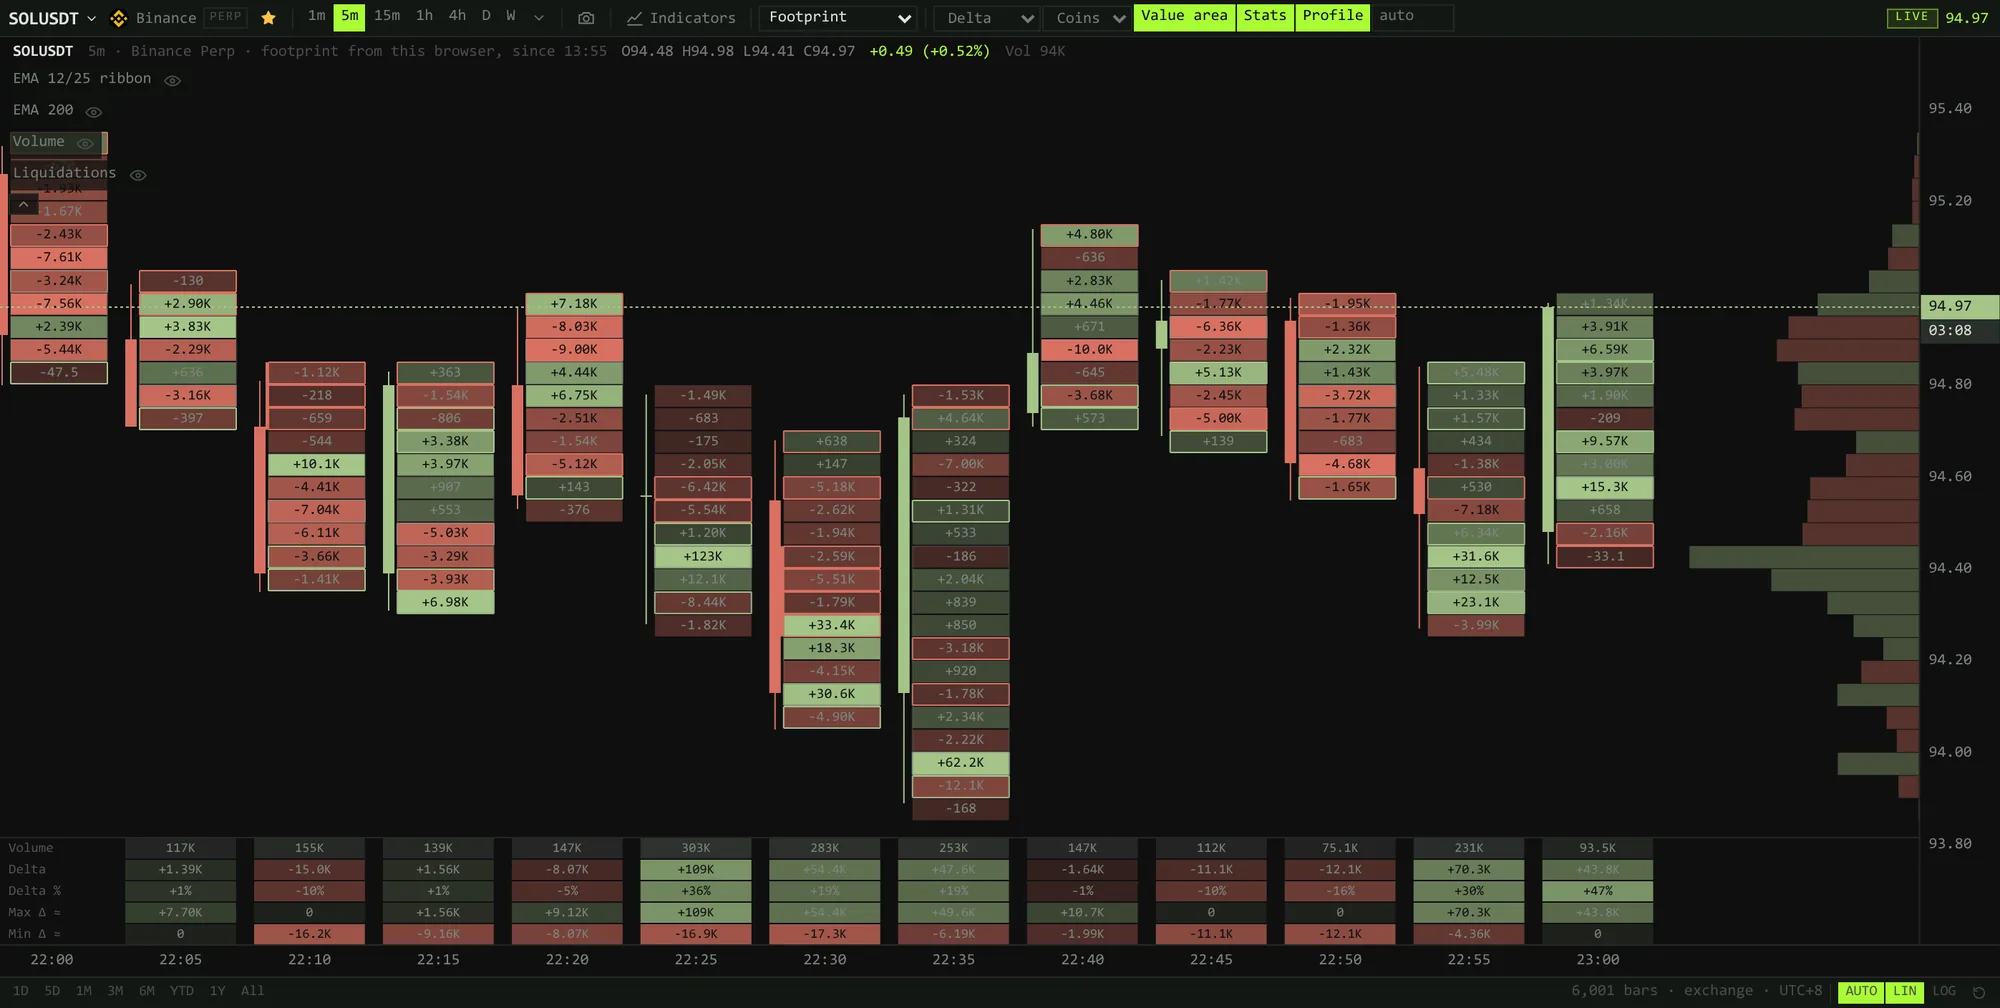
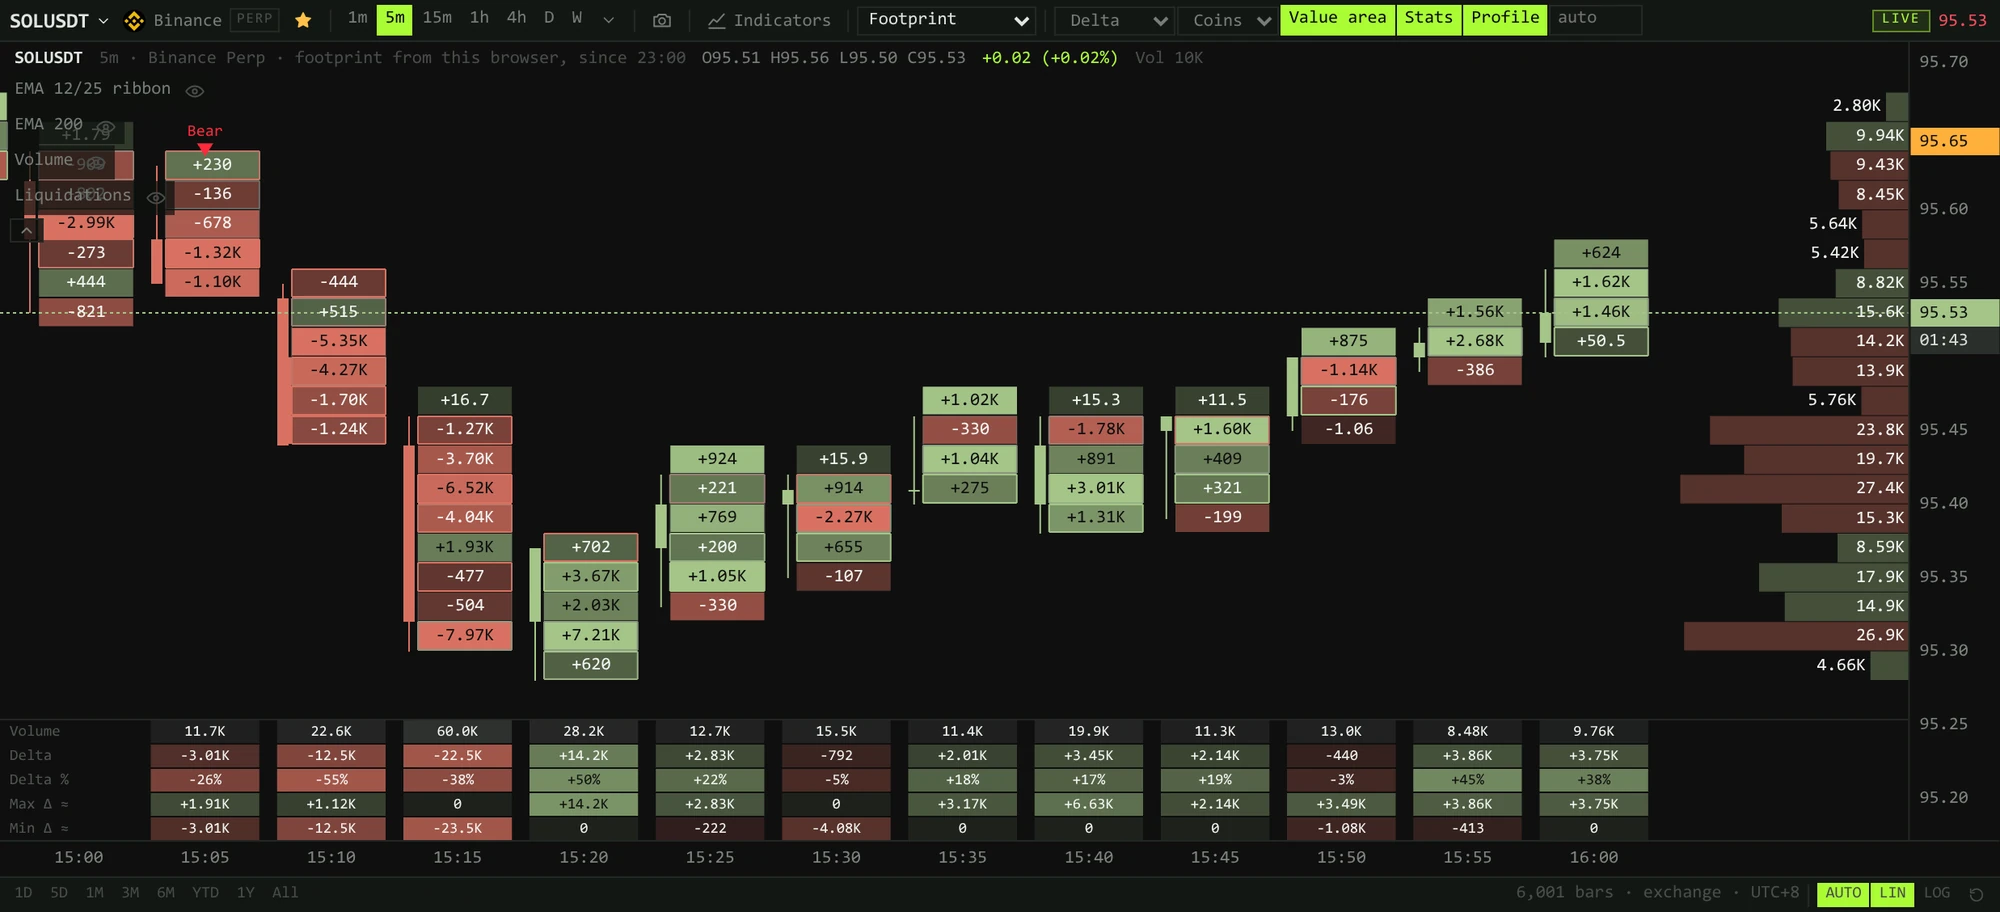
Retake the footprint screenshots with readable numbers

diff --git a/README.md b/README.md
@@ -98,12 +98,12 @@ Any chart can be read as TPO profiles laid out as MMT lays them out — square b
 ### Footprint
 
 <p align="center">
-  <img src="docs/screenshots/footprint.webp" alt="A 15-minute BTCUSDT footprint chart: beside each bar's thin candle, a column of cells with the delta at every price, and under the bars a table of each one's volume, delta, delta %, and the most and least its delta reached" width="100%">
+  <img src="docs/screenshots/footprint.webp" alt="A 15-minute BTCUSDT footprint chart: beside each bar's thin candle, a column of cells with the delta at every price; under the bars a table of each one's volume, delta, delta %, and the most and least its delta reached; and at the right edge, what traded at each price on screen" width="100%">
   <br>
   <sub>Fifteen-minute bars as footprints: the delta at every price, and what each bar came to underneath.</sub>
 </p>
 
-Volume bought and sold at each price inside every bar, beside a thin candle — as the delta, the two sides apart, their sum, a cluster or a ladder. The rows follow the zoom, so every cell keeps a number you can read, and a table under the bars gives each one's volume, delta, delta %, and the most and least its delta reached. The value area, imbalances and the profile of everything on screen come with it. Hourly and daily charts read the footprint's history, kept for good: Binance's BTC perpetual from January 2026, read from Binance's archive of every trade, and every recorded market from the day the server began recording it.
+Volume bought and sold at each price inside every bar, beside a thin candle — as the delta, the two sides apart, their sum, a cluster or a ladder. The rows follow the zoom, so every cell keeps a number you can read, and a table under the bars gives each one's volume, delta, delta %, and the most and least its delta reached. The value area, imbalances and the profile of everything on screen come with it, and every number is written in black or white, whichever reads on its cell. Hourly and daily charts read the footprint's history, kept for good: Binance's BTC perpetual from January 2026, read from Binance's archive of every trade, and every recorded market from the day the server began recording it.
 
 ### Footprint on any coin
 
